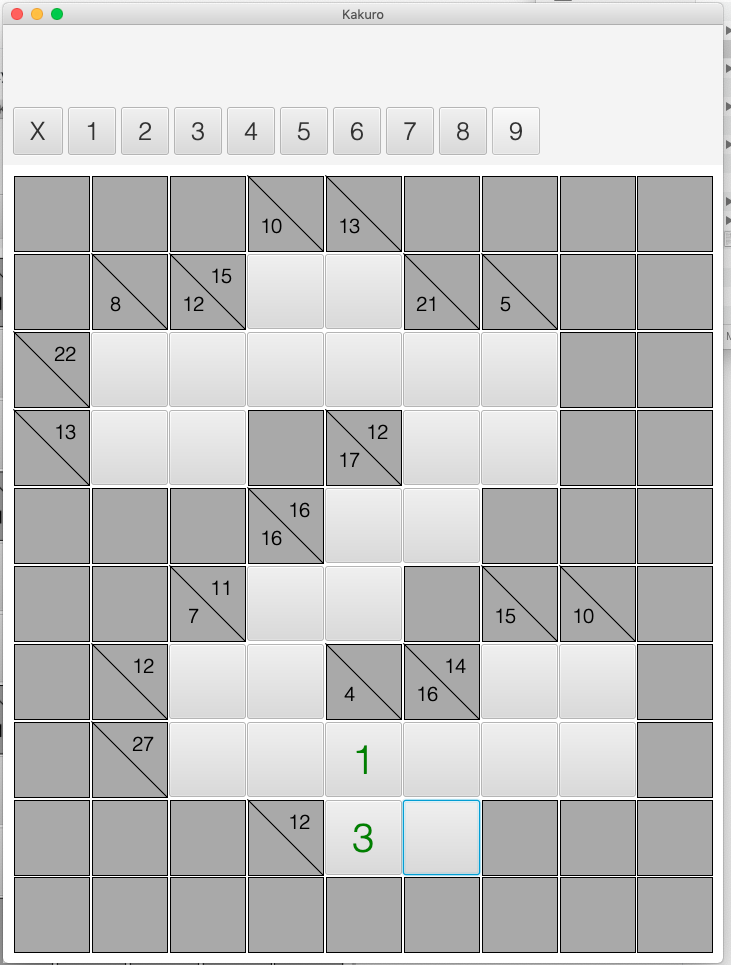
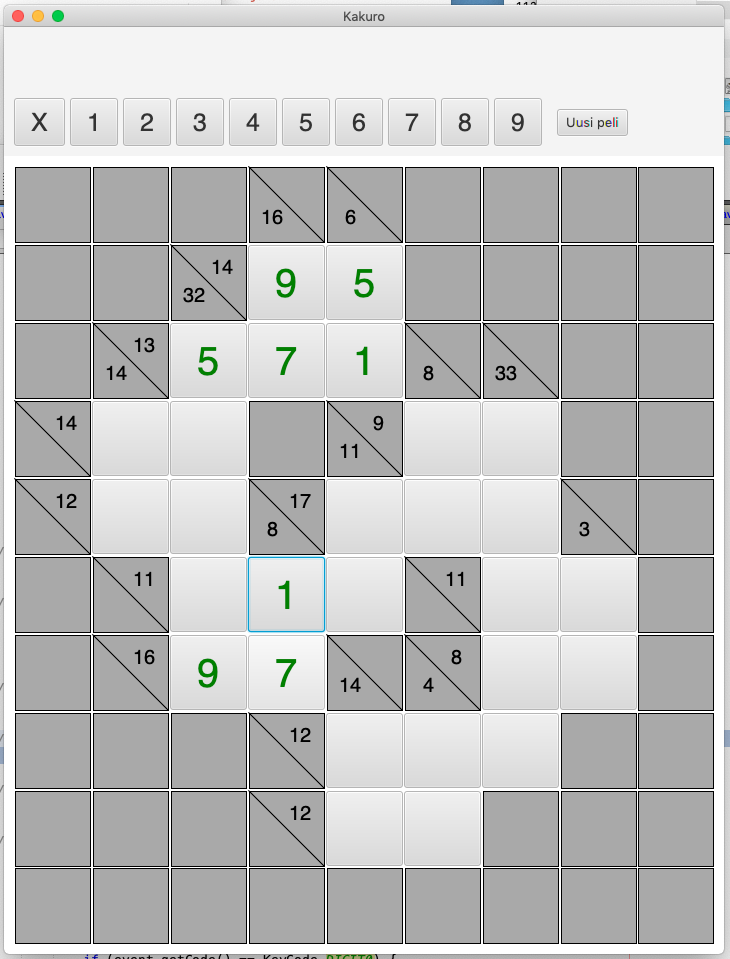
Käyttöohjeita muutettu

Changed region(s): [[0.0, 0.0, 1.0, 1.0]]

diff --git a/dokumentaatio/kayttoohje.md b/dokumentaatio/kayttoohje.md
@@ -16,11 +16,11 @@ Sovellusta käytetään JavaFX:llä luodun käyttöliittymän avulla:
 
 <img src="KakuroUi.png" width="750">
 
-Kakuro-ruudukossa on tyhjiä ruutuja, joihin täytetään numeroita vaaka- ja pystysuoraan käyttäen numeroita 1-9.  Samassa kentässä vaaka- tai pystyrivillä ei ole kahta samaa numeroa. Vaaka- ja pystyrivien lukujen tulee toteuttaa summa, joka on merkitty ruudukkoon.
+Kakuro-ruudukossa on tyhjiä ruutuja, joihin täytetään numeroita vaaka- ja pystysuoraan käyttäen numeroita 1-9.  Samassa kentässä vaaka- tai pystyrivillä ei osaa olla kahta samaa numeroa. Vaaka- ja pystyrivien lukujen tulee toteuttaa summa, joka on merkitty ruudukkoon.
 
 Sovellusikkunan alaosassa on ruudukko ja yläosassa on numeroiden valinta ja info-tekstin rivi.
 
-Käyttäjä merkitsee jonkin ruudun hiirellä näpäyttämällä ja valitsee sen jälkeen kyseiseen ruutuun tulevan luvun yläreunan numerorivistä.  Jos ruuruun valittu luku ei toteuta ruudun ehtoja (väärä summa tai sama luku kahdesti), saa käyttäjä ilmoituksen virheestä.  Virheelliset numerot muuttuvat punaisiksi.
+Käyttäjä valitsee jonkin ruudun hiirellä näpäyttämällä ja valitsee sen jälkeen kyseiseen ruutuun tulevan luvun yläreunan numerorivistä tai numeronäppäimellä.  Jos ruuruun valittu luku ei toteuta ruudun ehtoja (väärä summa tai sama luku kahdesti), saa käyttäjä ilmoituksen virheestä.  Virheelliset numerot muuttuvat punaisiksi.
 
 <img src="KakuroUiError.png" width="750">
 
@@ -28,4 +28,4 @@ Kun käyttäjä saa ruudukon täytettyä oikein, hän saa sovellukselta onnittel
 
 <img src="KakuroUiCompleted.png" width="750">
 
-Sovelluksessa on tällä hetkellä 10 pientä ruudukkoa, joista valitaan satunnaisesti joku pelattavaksi.
+Sovelluksessa on tällä hetkellä 10 pientä ruudukkoa, joista valitaan satunnaisesti joku pelattavaksi.  Painamalla 'Uusi peli' -nappia voi aloittaa uuden pelin.

diff --git a/dokumentaatio/tyoaikakirjanpito.md b/dokumentaatio/tyoaikakirjanpito.md
@@ -12,4 +12,6 @@
 | 30.11. | 3   | Käyttöliittymän tekoa|
 | 01.12. | 8    | Käyttöliittymän tekoa|
 | 01.12. | 3    | Käyttöliittymän parantelua, värien lisääminen|
-| yht    | 40   | 
+| 03.12. | 8    | Käyttöliittymän parantelua, dokumentaatiota
+| 07.12. | 5    | Käyttöliittymän muutoksia
+ yht    | 53   | 
